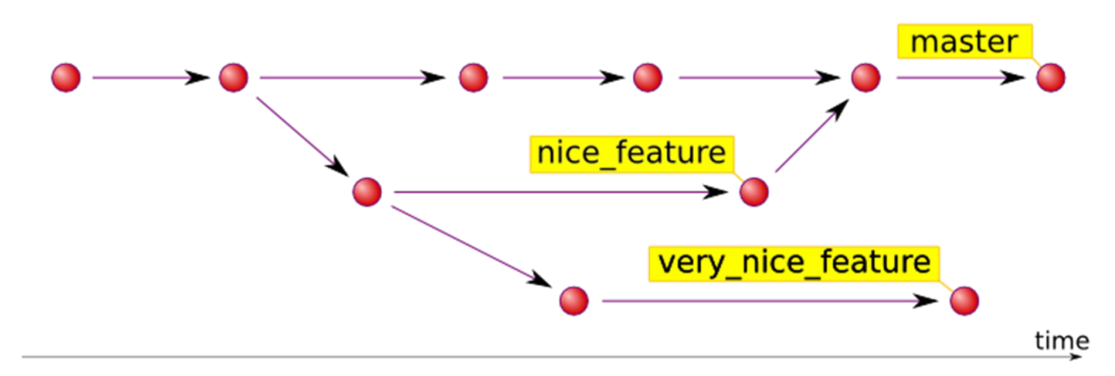
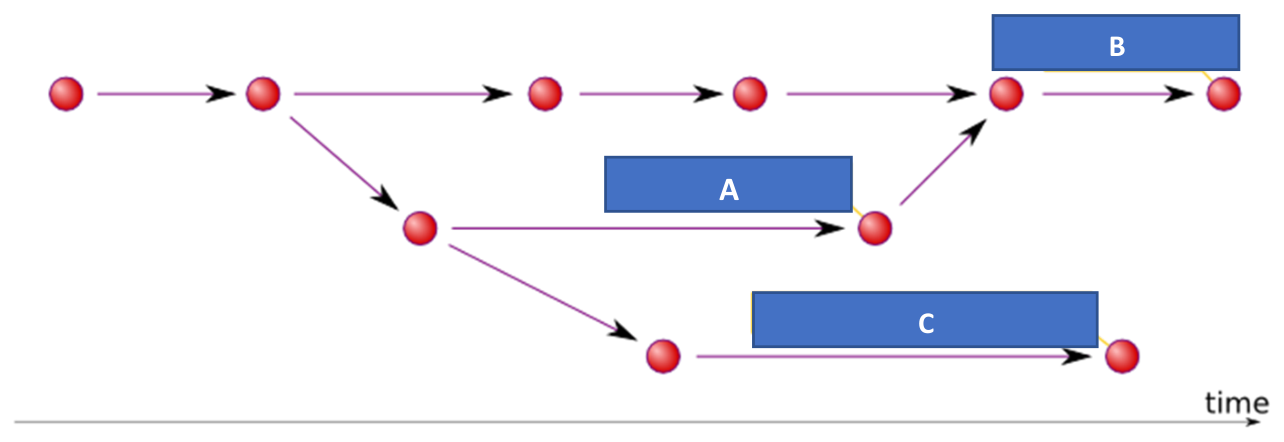
Correct five answer keys, recover a dropped question, add integrity guards
Data audit against the original exam PDFs and solution files.

Answer keys corrected — each of these had an explanation arguing for the
wrong option, all rewritten:
- 21-B-Q2  -> "כל התשובות נכונות"        (official solutions; agrees with 21S-B)
- 21-B-Q5  -> "מבצעים ומתכננים בדיקות"   (official solutions)
- 23B-A-Q10 -> "בדיקת המערכת במקרי קצה…" (via the verbatim-identical 19B-C-Q6,
               whose solutions PDF highlights option א; there is no מחוון
               for 23B-A itself and none is cited)
- 25-EX-Q16 -> "מקבול"                    (consistent with Q18/Q19/Q20)
- SP-MDA-Q1 -> "השלב - design & development" (the source's own note)

- 21-A-Q4 recovered: it had hasImage:true with no image file, so the build
  had been silently excluding the whole record — the question was absent
  from the live app. Figure cropped from the scan.
- 25F0b Q12/Q14: restore the shared architecture preamble they dangled on.
- Add 22S-A-Q4's layered-architecture diagram; re-crop 22B-A-Q14.
- _manifest: 25S-A is a form-0 paper. The filename says "טופס א" but the
  page header reads "מבחן מס' 000", which is what the keys were built from.
- smoke.js now asserts id uniqueness and questions.js ≡ questions.json.

25B-N Q6/Q9/Q14 were left as they are. A proposed correction assumed the
paper is a טופס 0; it is not — it carries none of the "מבחן מס' 000" /
"קוד מבחן: ~…L" header that every real form-0 paper here prints, and it is
an instructor's Word master, not a generated form.

diff --git a/questions.js b/questions.js
@@ -76,9 +76,9 @@ window.QUESTIONS = [
    "זמני פיתוח קצרים והצגות (DEMOS)",
    "כל התשובות נכונות"
   ],
-  "correctIndex": 0,
+  "correctIndex": 3,
   "official": false,
-  "explanation": "ה-Product Owner מייצג את הלקוח ועובד עמו בשיתוף פעולה שוטף לאורך הפרויקט, וזהו המימוש הישיר של ערך 'שיתוף פעולה עם לקוחות'. צוותים מקבילים נוגעים להתארגנות ולא לשיתוף עם הלקוח.",
+  "explanation": "על פי הפתרון הרשמי כל שלוש הדרכים מממשות את הערך: צוותי Scrum פועלים במקביל ובאינטראקציה קרובה עם הלקוחות ומבינים טוב יותר את צורכיהם; בעל המוצר (Product Owner) עובד בשיתוף פעולה מלא עם הלקוחות ומגביר את שקיפות הפרויקט; וזמני פיתוח קצרים (Sprints) עם הצגה (Demo) בסוף כל מחזור מאפשרים ללקוח לתת משוב שוטף. לכן התשובה היא 'כל התשובות נכונות'.",
   "hasImage": false,
   "verified": true,
   "source": "exam",
@@ -1142,6 +1142,7 @@ window.QUESTIONS = [
   "source": "exam",
   "sourceLabel": "2022 סמסטר קיץ מועד א׳",
   "id": "22S-A-Q4",
+  "image": "images/exams/22S-A-Q4.png",
   "topicLabel": "עיצוב ארכיטקטוני",
   "dedupKey": "בארכיטקטורת השכבות הבאה, כפי שניתן לראות ישנן 4 שכבות, במידה ונרצה לשנות את השכבה הרביעית ה-system support לשכבה שתומכת בחיבור ל-db שונה מהנוכחי. מה נדרש לבצע כדי לעשות שינוי זה (תחת ההנחה שהארכיטקטורה יושמה היטב)? || אין צורך לשנות את השכבות הקיימות אלא לחשוף את אותו api שהיה קיים בשיכבה הקודמת|יש לעדכן את שאר השכבות ע\"פ הסדר ההיררכי, ז\"א: עדכון שכבה 3 ולאחר מכן שכבה 2 ולבסוף שכבה 1|יש לעדכן את שכבה 3 בלבד, שאר השכבות מבודדות לחלוטין משכבה זו|צריך להכיר את מבנה המערכת כדי לדעת איזו שכבה לשנות ומה הסדר"
  },
@@ -1663,6 +1664,29 @@ window.QUESTIONS = [
   "image": "images/exams/20-B-Q5.png",
   "topicLabel": "אספקה וקונפיגורציה",
   "dedupKey": "ע״פ התרשים המתואר, ברצוני לבנות גירסה חדשה בענף b ללקוח הכוללת את התקדמות ענף c בלבד. כיצד עליי לעשות זאת? (הניחו כי הגירסאות בענפים ממוספרות בסדר עולה ע״פ ציר התקדמותן: נקודה אדומה ראשונה היא גירסה 1 של ענף b, נקודה אדומה שנייה היא גירסה 2 של ענף b וגירסה 1 של ענפים a ו-c.) || עליי למזג את גירסה 2 של ענף b עם גירסה 2 של ענף c|עליי למזג את גירסה 2 של ענף c עם גירסה 2 של ענף b|עליי למזג את גירסה 3 של ענף a עם גירסה 3 של ענף b|עליי למזג את גירסה 3 של ענף c עם גירסה 3 של ענף b",
+  "verified": false
+ },
+ {
+  "examCode": "21-A",
+  "year": 2021,
+  "topic": "config",
+  "question": "בתרשים המתואר, במידה וארצה לייצר גירסה מגירסאות A8 C10 ו – B6 בלבד?",
+  "options": [
+   "עליי לבצע merge של – C10, A8 ו – B5",
+   "עליי לבצע merge של – A7 ו – C9",
+   "עליי לבצע merge של – C10 ו – B6",
+   "אף אחת מהתשובות אינה נכונה"
+  ],
+  "correctIndex": 2,
+  "official": false,
+  "explanation": "לפי תרשים הגרסאות, ענף A (A8) כבר מוזג אל הקו הראשי לפני B6, כך ש-B6 כבר מכיל את A8; לכן די לבצע merge בין B6 לבין C10 כדי לקבל את שלוש הגרסאות.",
+  "hasImage": false,
+  "source": "exam",
+  "sourceLabel": "2021 מבחן מועד א׳",
+  "id": "21-A-Q4",
+  "image": "images/exams/21-A-Q4.png",
+  "topicLabel": "אספקה וקונפיגורציה",
+  "dedupKey": "בתרשים המתואר, במידה וארצה לייצר גירסה מגירסאות a8 c10 ו – b6 בלבד? || אף אחת מהתשובות אינה נכונה|עליי לבצע merge של – a7 ו – c9|עליי לבצע merge של – c10 ו – b6|עליי לבצע merge של – c10, a8 ו – b5",
   "verified": false
  },
  {
@@ -4804,7 +4828,7 @@ window.QUESTIONS = [
   "examCode": "25F0b",
   "year": 2025,
   "topic": "patterns",
-  "question": "אבי ונועה סטודנטים בקורס, החליטו לעצב את המערכת בארכיטקטורה MVC, אילו מהשפטים הבאים יכול לתאר את הארכיטקטורה?",
+  "question": "במסגרת הקורס \"תכנות מתקדם\" נדרשו הסטודנטים לפתח קטלוג מוצרים.\nלהלן תיאור הפרויקט:\nתיאור כללי\nקטלוג המוצרים היא פלטפורמה דיגיטלית המרכזת ומארגנת את כל מידע המוצר במקום אחד, ומבטיחה עקביות בין ערוצי המכירות. היא מאפשרת למנהל הפלטפורמה להגדיר, לעדכן ולנהל ביעילות מאפייני מוצר, תמחור, זמינות וגרסאות.\nהמערכת תומכת במדרגיות על ידי טיפול בקטלוגים גדולים וקווי מוצרים מגוונים. היא גם משפרת את חוויית הלקוח על ידי הבטחת נתוני מוצר מדויקים, עדכניים וניתנים לחיפוש בערוצים השונים.\nארכיטקטורה כללית הנדרשת מהמערכת\nהפלטפורמה תהיה מורכבת משלושה חלקים עיקריים:\n1. מודול ניהול המוצרים - מאגר מרכזי לפרטי מוצר, מאפיינים, גרסאות ומטא-דאטה.\n2. מודול תמחור ומבצעים – מנהל תמחור דינמי, הנחות, מטבעות וכללי קידום מכירות.\n3. מודול מלאי וזמינות – עוקב אחר מלאי מוצרים, זמינות ומצב מחזור חיים.\nפירוט הרכיבים בארכיטקטורה\n1. שירות שמאפשר ליצור מוצרים חדשים, לעדכן ולהסיר מוצרים קיימים\n2. שירות שמאפשר לחשב תמחור בצורה דינמית של מוצרים ע\"פ סוג הלקוח שמתחבר\n3. תהליך Batch שרץ בצורה מתוזמנת ומוודא את מלאי המוצרים והזמינות שלהם\n4. ממשק משתמש גרפי הכולל יכולות ניהול למנהל המערכת וכמו כן אפשרות רכישת מוצרים ללקוחות.\n\nאבי ונועה סטודנטים בקורס, החליטו לעצב את המערכת בארכיטקטורה MVC, אילו מהשפטים הבאים יכול לתאר את הארכיטקטורה?",
   "options": [
    "לא ניתן לדעת",
    "כל התשובות האחרות שגויות",
@@ -4820,7 +4844,7 @@ window.QUESTIONS = [
   "sourceLabel": "2025 טופס אפס (9.11)",
   "id": "25F0b-Q14",
   "topicLabel": "תבניות עיצוב",
-  "dedupKey": "אבי ונועה סטודנטים בקורס, החליטו לעצב את המערכת בארכיטקטורה mvc, אילו מהשפטים הבאים יכול לתאר את הארכיטקטורה? || כל התשובות האחרות שגויות|לא ניתן לדעת|רכיב 2 יתפקד כ – view|רכיב 3 יתפקד כ – view|רכיב 4 יתפקד כ – view",
+  "dedupKey": "במסגרת הקורס \"תכנות מתקדם\" נדרשו הסטודנטים לפתח קטלוג מוצרים. להלן תיאור הפרויקט: תיאור כללי קטלוג המוצרים היא פלטפורמה דיגיטלית המרכזת ומארגנת את כל מידע המוצר במקום אחד, ומבטיחה עקביות בין ערוצי המכירות. היא מאפשרת למנהל הפלטפורמה להגדיר, לעדכן ולנהל ביעילות מאפייני מוצר, תמחור, זמינות וגרסאות. המערכת תומכת במדרגיות על ידי טיפול בקטלוגים גדולים וקווי מוצרים מגוונים. היא גם משפרת את חוויית הלקוח על ידי הבטחת נתוני מוצר מדויקים, עדכניים וניתנים לחיפוש בערוצים השונים. ארכיטקטורה כללית הנדרשת מהמערכת הפלטפורמה תהיה מורכבת משלושה חלקים עיקריים: 1. מודול ניהול המוצרים - מאגר מרכזי לפרטי מוצר, מאפיינים, גרסאות ומטא-דאטה. 2. מודול תמחור ומבצעים – מנהל תמחור דינמי, הנחות, מטבעות וכללי קידום מכירות. 3. מודול מלאי וזמינות – עוקב אחר מלאי מוצרים, זמינות ומצב מחזור חיים. פירוט הרכיבים בארכיטקטורה 1. שירות שמאפשר ליצור מוצרים חדשים, לעדכן ולהסיר מוצרים קיימים 2. שירות שמאפשר לחשב תמחור בצורה דינמית של מוצרים ע\"פ סוג הלקוח שמתחבר 3. תהליך batch שרץ בצורה מתוזמנת ומוודא את מלאי המוצרים והזמינות שלהם 4. ממשק משתמש גרפי הכולל יכולות ניהול למנהל המערכת וכמו כן אפשרות רכישת מוצרים ללקוחות. אבי ונועה סטודנטים בקורס, החליטו לעצב את המערכת בארכיטקטורה mvc, אילו מהשפטים הבאים יכול לתאר את הארכיטקטורה? || כל התשובות האחרות שגויות|לא ניתן לדעת|רכיב 2 יתפקד כ – view|רכיב 3 יתפקד כ – view|רכיב 4 יתפקד כ – view",
   "verified": false
  },
  {
@@ -5678,9 +5702,9 @@ window.QUESTIONS = [
    "מתכננים בדיקות",
    "מבצעים בדיקות"
   ],
-  "correctIndex": 2,
+  "correctIndex": 1,
   "official": false,
-  "explanation": "במודל ה-V כל שלב פיתוח (בזרוע השמאלית) מקושר לשלב בדיקה מקביל: כבר בשלבי הפיתוח מתכננים את הבדיקות המתאימות, וההרצה עצמה מתבצעת בזרוע הימנית.",
+  "explanation": "על פי הפתרון הרשמי התשובה היא ג'. במודל ה-V כל שלב פיתוח משויך לשלב בדיקה מקביל: בשלב הפיתוח מתכננים את הבדיקה שתתבצע בשלב הבדיקה המקביל, ובשלב המקביל מבצעים אותה בפועל. לכן בכל שלבי הפיתוח גם מתכננים וגם מבצעים בדיקות, ולא רק אחד מהשניים.",
   "hasImage": false,
   "verified": true,
   "source": "exam",
@@ -5854,9 +5878,9 @@ window.QUESTIONS = [
    "בדיקת המערכת במקרי קצה או אפילו מקרים של קלטים או תסריטים לא סבירים",
    "בדיקת המערכת במקרים לוגיים"
   ],
-  "correctIndex": 1,
+  "correctIndex": 2,
   "official": false,
-  "explanation": "Verification בודקת שהמערכת נבנתה נכון מול המפרט — כלומר מקרים לוגיים (ב') ופונקציונליות בפעולה תקינה (ג'). מקרי קצה/קלטים לא-סבירים (א') שייכים יותר לבדיקות עמידות/validation.",
+  "explanation": "על פי הפתרון הרשמי של אותה שאלה בדיוק (מועד ג' 11.9.19, שם סעיף א' מסומן בצהוב) התשובה היא א': בדיקות וריפיקציה בוחנות את המערכת במקרי קצה ואף בקלטים או בתסריטים לא סבירים, כלומר מוודאות שהיא עומדת גם בתנאים חריגים ולא רק בזרימה הצפויה. סעיפים ב' ו-ג' מתארים בדיקה של מקרים לוגיים ושל פעולה תקינה בלבד, ולכן גם 'תשובות ב ו-ג נכונות' אינו נכון.",
   "hasImage": false,
   "verified": true,
   "source": "exam",
@@ -7718,9 +7742,9 @@ window.QUESTIONS = [
    "כל התשובות האחרות שגויות",
    "שאין בו מצבים אלא מיצובים"
   ],
-  "correctIndex": 4,
+  "correctIndex": 1,
   "official": false,
-  "explanation": "'תרשים מיצוב' (positioning/structural diagram) has positions (מיצובים) rather than states — the wordplay contrast with a state machine's מצבים; term is ambiguous so low confidence.",
+  "explanation": "בגיליון הבחינה עצמו הפרק נושא את הכותרת 'תרשים מיצוב (Statechart)' — כלומר תרשים מיצוב הוא Statechart, והוא בהחלט מכיל מצבים (שאלה 18 באותו מבחן קובעת שהוא יכול לכלול מצבים, ושאלה 20 שהוא מיועד לתאר את כלל המצבים האפשריים של המערכת). ההרחבה שלו על מכונת מצבים רגילה היא המקבול — אזורים אורתוגונליים הפועלים בו-זמנית, כלומר מצבים ביחס של AND (ראו שאלה 19). לכן התשובה היא 'מקבול'.",
   "hasImage": false,
   "verified": false,
   "source": "exam",
@@ -8055,7 +8079,7 @@ window.QUESTIONS = [
   "examCode": "25F0b",
   "year": 2025,
   "topic": "uml",
-  "question": "דיאגרמת הרצף (Sequence Diagram) המתארת את פעולת עדכון המוצרים ע\"י מנהל המערכת, יכיל את היישויות הבאות:",
+  "question": "במסגרת הקורס \"תכנות מתקדם\" נדרשו הסטודנטים לפתח קטלוג מוצרים.\nלהלן תיאור הפרויקט:\nתיאור כללי\nקטלוג המוצרים היא פלטפורמה דיגיטלית המרכזת ומארגנת את כל מידע המוצר במקום אחד, ומבטיחה עקביות בין ערוצי המכירות. היא מאפשרת למנהל הפלטפורמה להגדיר, לעדכן ולנהל ביעילות מאפייני מוצר, תמחור, זמינות וגרסאות.\nהמערכת תומכת במדרגיות על ידי טיפול בקטלוגים גדולים וקווי מוצרים מגוונים. היא גם משפרת את חוויית הלקוח על ידי הבטחת נתוני מוצר מדויקים, עדכניים וניתנים לחיפוש בערוצים השונים.\nארכיטקטורה כללית הנדרשת מהמערכת\nהפלטפורמה תהיה מורכבת משלושה חלקים עיקריים:\n1. מודול ניהול המוצרים - מאגר מרכזי לפרטי מוצר, מאפיינים, גרסאות ומטא-דאטה.\n2. מודול תמחור ומבצעים – מנהל תמחור דינמי, הנחות, מטבעות וכללי קידום מכירות.\n3. מודול מלאי וזמינות – עוקב אחר מלאי מוצרים, זמינות ומצב מחזור חיים.\nפירוט הרכיבים בארכיטקטורה\n1. שירות שמאפשר ליצור מוצרים חדשים, לעדכן ולהסיר מוצרים קיימים\n2. שירות שמאפשר לחשב תמחור בצורה דינמית של מוצרים ע\"פ סוג הלקוח שמתחבר\n3. תהליך Batch שרץ בצורה מתוזמנת ומוודא את מלאי המוצרים והזמינות שלהם\n4. ממשק משתמש גרפי הכולל יכולות ניהול למנהל המערכת וכמו כן אפשרות רכישת מוצרים ללקוחות.\n\nדיאגרמת הרצף (Sequence Diagram) המתארת את פעולת עדכון המוצרים ע\"י מנהל המערכת, יכיל את היישויות הבאות:",
   "options": [
    "לא ניתן לדעת",
    "מנהל המערכת, מסד הנתונים, רכיב 4 ורכיב 1 בפירוט הרכיבים לעיל",
@@ -8071,7 +8095,7 @@ window.QUESTIONS = [
   "sourceLabel": "2025 טופס אפס (9.11)",
   "id": "25F0b-Q12",
   "topicLabel": "מידול ו-UML",
-  "dedupKey": "דיאגרמת הרצף (sequence diagram) המתארת את פעולת עדכון המוצרים ע\"י מנהל המערכת, יכיל את היישויות הבאות: || כל התשובות האחרות שגויות|לא ניתן לדעת|לקוח, מסד הנתונים, רכיב 4 ורכיב 3 בפירוט הרכיבים לעיל|מנהל המערכת, מסד הנתונים, רכיב 4 ורכיב 1 בפירוט הרכיבים לעיל|רכיב 3 וכיב 2 בפירוט הרכיבים לעיל, ומנהל המערכת",
+  "dedupKey": "במסגרת הקורס \"תכנות מתקדם\" נדרשו הסטודנטים לפתח קטלוג מוצרים. להלן תיאור הפרויקט: תיאור כללי קטלוג המוצרים היא פלטפורמה דיגיטלית המרכזת ומארגנת את כל מידע המוצר במקום אחד, ומבטיחה עקביות בין ערוצי המכירות. היא מאפשרת למנהל הפלטפורמה להגדיר, לעדכן ולנהל ביעילות מאפייני מוצר, תמחור, זמינות וגרסאות. המערכת תומכת במדרגיות על ידי טיפול בקטלוגים גדולים וקווי מוצרים מגוונים. היא גם משפרת את חוויית הלקוח על ידי הבטחת נתוני מוצר מדויקים, עדכניים וניתנים לחיפוש בערוצים השונים. ארכיטקטורה כללית הנדרשת מהמערכת הפלטפורמה תהיה מורכבת משלושה חלקים עיקריים: 1. מודול ניהול המוצרים - מאגר מרכזי לפרטי מוצר, מאפיינים, גרסאות ומטא-דאטה. 2. מודול תמחור ומבצעים – מנהל תמחור דינמי, הנחות, מטבעות וכללי קידום מכירות. 3. מודול מלאי וזמינות – עוקב אחר מלאי מוצרים, זמינות ומצב מחזור חיים. פירוט הרכיבים בארכיטקטורה 1. שירות שמאפשר ליצור מוצרים חדשים, לעדכן ולהסיר מוצרים קיימים 2. שירות שמאפשר לחשב תמחור בצורה דינמית של מוצרים ע\"פ סוג הלקוח שמתחבר 3. תהליך batch שרץ בצורה מתוזמנת ומוודא את מלאי המוצרים והזמינות שלהם 4. ממשק משתמש גרפי הכולל יכולות ניהול למנהל המערכת וכמו כן אפשרות רכישת מוצרים ללקוחות. דיאגרמת הרצף (sequence diagram) המתארת את פעולת עדכון המוצרים ע\"י מנהל המערכת, יכיל את היישויות הבאות: || כל התשובות האחרות שגויות|לא ניתן לדעת|לקוח, מסד הנתונים, רכיב 4 ורכיב 3 בפירוט הרכיבים לעיל|מנהל המערכת, מסד הנתונים, רכיב 4 ורכיב 1 בפירוט הרכיבים לעיל|רכיב 3 וכיב 2 בפירוט הרכיבים לעיל, ומנהל המערכת",
   "verified": false
  },
  {
@@ -8333,9 +8357,9 @@ window.QUESTIONS = [
    "השלב - design & development",
    "השלב - interaction model"
   ],
-  "correctIndex": 0,
+  "correctIndex": 2,
   "official": false,
-  "explanation": "Sommerville classifies class diagrams under Structural models (structure model), alongside interaction, context and behavioral models.",
+  "explanation": "המבחן עצמו מוסיף מתחת לשאלה את ההערה 'יש לשים לב שנשאל לגבי השלב (מודגש) ולא לגבי ה-Model' — כלומר לא מבקשים את משפחת המודלים שאליה שייך תרשים המחלקות (structure model), אלא את שלב הפיתוח שבו הוא נוצר, design & development.",
   "hasImage": false,
   "verified": true,
   "source": "exam",
@@ -8348,7 +8372,7 @@ window.QUESTIONS = [
   "examCode": "SP-MDA",
   "year": null,
   "topic": "uml",
-  "question": "מה המשמעות של הקווים המקווקווים בדיאגרמת ה-sequence הבאה? (בדיאגרמה חץ מלא info מ-A ל-B, וחץ מקווקו info חוזר מ-B ל-A, וקווי חיים אנכיים מקווקווים)",
+  "question": "מה המשמעות של הקווים המקווקווים בדיאגרמת ה-sequence הבאה?",
   "options": [
    "בקשה מ-B ל-A",
    "תשובה מ-B ל-A",
@@ -8364,7 +8388,7 @@ window.QUESTIONS = [
   "id": "SP-MDA-Q3",
   "image": "images/exams/SP-MDA-Q3.png",
   "topicLabel": "מידול ו-UML",
-  "dedupKey": "מה המשמעות של הקווים המקווקווים בדיאגרמת ה-sequence הבאה? (בדיאגרמה חץ מלא info מ-a ל-b, וחץ מקווקו info חוזר מ-b ל-a, וקווי חיים אנכיים מקווקווים) || בקשה מ-b ל-a|יש יותר מתשובה אחת נכונה|ציר הזמן|תשובה מ-b ל-a",
+  "dedupKey": "מה המשמעות של הקווים המקווקווים בדיאגרמת ה-sequence הבאה? || בקשה מ-b ל-a|יש יותר מתשובה אחת נכונה|ציר הזמן|תשובה מ-b ל-a",
   "verified": false
  }
 ];

diff --git a/tools/smoke.js b/tools/smoke.js
@@ -1,5 +1,5 @@
 // Node smoke test: data integrity + build-time-shuffle + render-shuffle scoring invariant.
-const fs=require("fs"),path=require("path");
+const fs=require("fs"),path=require("path"),vm=require("vm");
 global.window={};
 const code=fs.readFileSync(path.join(__dirname,"..","questions.js"),"utf8");
 eval(code);
@@ -15,6 +15,14 @@ for(const q of QS){
   if(!q.question||!q.question.trim()){console.log("EMPTY q",q.id);bad++;}
   if(q.options.some(o=>!String(o).trim())){console.log("BLANK opt",q.id);bad++;}
   if(!q.dedupKey){console.log("NO dedupKey",q.id);bad++;}
+}
+
+// ids must be unique: the id seeds the build-time option shuffle and keys the review list,
+// so a collision silently shadows one of the colliding questions in the app.
+const idSeen=new Set(); let dupIds=0;
+for(const q of QS){
+  if(!q.id){console.log("NO id",q.sourceLabel);bad++;continue;}
+  if(idSeen.has(q.id)){console.log("DUPLICATE id",q.id);dupIds++;bad++;} else idSeen.add(q.id);
 }
 
 // anti-"always-first": the STORED correctIndex should be spread across positions
@@ -41,12 +49,32 @@ for(let t=0;t<20000;t++){
 const seen=new Set(); let dups=0;
 for(const q of QS){ if(seen.has(q.dedupKey)) dups++; else seen.add(q.dedupKey); }
 
+// questions.js is the ONLY payload the browser loads (index.html pulls it via <script src>);
+// questions.json is a build artifact nothing at runtime reads. If they drift, a reviewer
+// reading the .json is not reading what students actually get — so require them identical.
+// The .js is re-evaluated in a vm sandbox so window.QUESTIONS is read, not this file's globals.
+const sandbox={window:{}};
+vm.runInNewContext(fs.readFileSync(path.join(__dirname,"..","questions.js"),"utf8"),sandbox);
+const jsPayload=sandbox.window.QUESTIONS;
+const jsonPayload=JSON.parse(fs.readFileSync(path.join(__dirname,"..","questions.json"),"utf8"));
+const syncOK=JSON.stringify(jsPayload)===JSON.stringify(jsonPayload);
+if(!syncOK){
+  console.log("SYNC questions.js/questions.json DIFFER — lengths",jsPayload.length,"vs",jsonPayload.length);
+  for(let i=0;i<Math.max(jsPayload.length,jsonPayload.length);i++){
+    if(JSON.stringify(jsPayload[i])!==JSON.stringify(jsonPayload[i])){
+      console.log("  first divergence at index",i,"—",(jsPayload[i]||{}).id,"vs",(jsonPayload[i]||{}).id);break;}
+  }
+  bad++;
+}
+
 console.log("total questions:",QS.length);
 console.log("by topic:",topics);
 console.log("tiers — official:",QS.filter(q=>q.official).length,
   "· verified:",QS.filter(q=>q.verified).length,
   "· derived:",QS.filter(q=>!q.official&&!q.verified).length);
 console.log("integrity problems:",bad);
+console.log("duplicate ids:",dupIds,"(must be 0)");
+console.log("questions.js ≡ questions.json:",syncOK?"yes":"NO — payloads drifted");
 console.log("cross-exam duplicates (hidden in practice pool):",dups);
 console.log("STORED correctIndex distribution (5-opt, should be ~20% each — proves build-time shuffle):",
   stored5.map(c=>n5?(c/n5*100).toFixed(1)+"%":"-").join(" / "));
@@ -55,4 +83,4 @@ console.log("render display-position distribution (5-opt, ~20% each):",
   disp5.map(c=>trials5?(c/trials5*100).toFixed(1)+"%":"-").join(" / "));
 const firstPct = n5? stored5[0]/n5 : 0;
 const shuffleOK = firstPct < 0.45;  // if >45% still at 0, build-time shuffle likely didn't run
-console.log(bad===0 && mismatch===0 && shuffleOK ? "\nSMOKE TEST PASSED" : "\nSMOKE TEST FAILED");
+console.log(bad===0 && mismatch===0 && shuffleOK && dupIds===0 && syncOK ? "\nSMOKE TEST PASSED" : "\nSMOKE TEST FAILED");

diff --git a/tools/build_report.md b/tools/build_report.md
@@ -1,10 +1,10 @@
 # Build report — SE questions dataset
 
 - Raw items read: **372**
-- Excluded: **1**  ({'image-missing': 1})
+- Excluded: **0**  ({})
 - Cross-exam duplicates (kept whole; app dedups practice pool): **27**
-- **Final questions: 371**
-- Trust tiers: **221** official (from key/form-0) · **138** verified (independently re-derived) · **12** derived (still uncertain)
+- **Final questions: 372**
+- Trust tiers: **221** official (from key/form-0) · **138** verified (independently re-derived) · **13** derived (still uncertain)
 
 ## By topic
 
@@ -15,7 +15,7 @@
 - Agile · SCRUM · XP (`agile`): 39
 - עיצוב ארכיטקטוני (`architecture`): 30
 - הנדסת דרישות (`requirements`): 23
-- אספקה וקונפיגורציה (`config`): 21
+- אספקה וקונפיגורציה (`config`): 22
 - OOP ו-Java (`oop_java`): 10
 
 ## By exam
@@ -24,7 +24,7 @@
 - 19B-C — 2019 סמסטר ב׳ מועד ג׳: 11
 - 20-A — 2020 מועד א׳: 8
 - 20-B — 2020 מועד ב׳: 8
-- 21-A — 2021 מבחן מועד א׳: 9
+- 21-A — 2021 מבחן מועד א׳: 10
 - 21-B — 2021 מבחן מועד ב׳: 10
 - 21S-A — 2021 סמסטר קיץ מועד א׳: 10
 - 21S-B — 2021 סמסטר קיץ מועד ב׳: 10